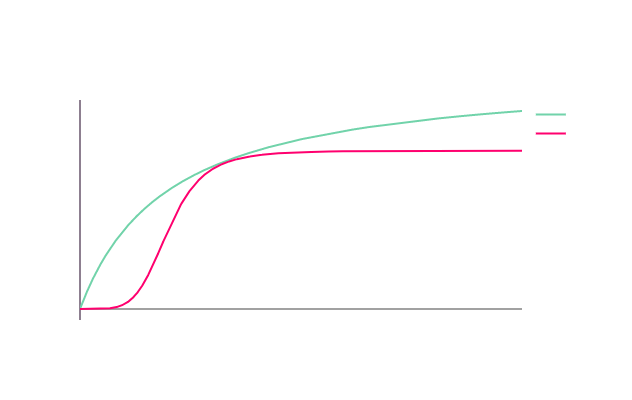
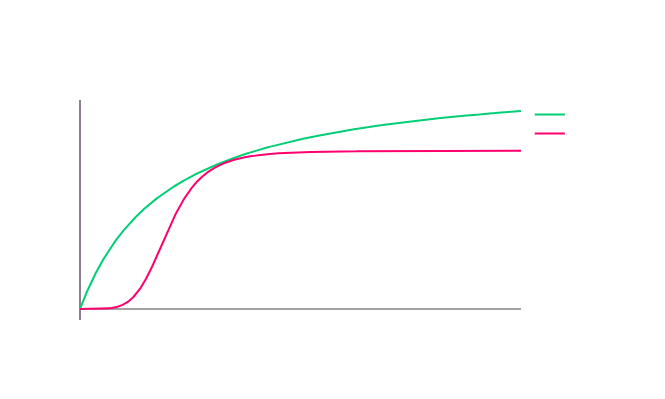
lineapp

Changed region(s): [[0.1203, 0.2406, 0.9019, 0.812], [0.1804, 0.5414, 0.2104, 0.6015]]

diff --git a/css/styles.css b/css/styles.css
@@ -640,7 +640,7 @@ a{
 #gradient-canvas {
     width:100%;
     height:100%;
-    --gradient-color-1: var(--green);  
+    --gradient-color-1: var(--bright_green);  
     --gradient-color-2: var(--red); 
     --gradient-color-3: var(--dark);
     --gradient-color-4: var(--dark); 
@@ -685,7 +685,6 @@ html,body {
 }
 
 /* Mobile */
-
 @media  (max-width: 1000px) {
 
     ::-webkit-scrollbar {
@@ -844,8 +843,8 @@ html,body {
     padding: 10px 20px;
     border-radius: 20px;
     margin: 10px 30px;
-    background-color: rgba(0,0,0, 0.9);
     transition: .2s;
+    background-color: rgba(0,0,0, 0.9);
 }
 .signin a{
     color: var(--bright);
